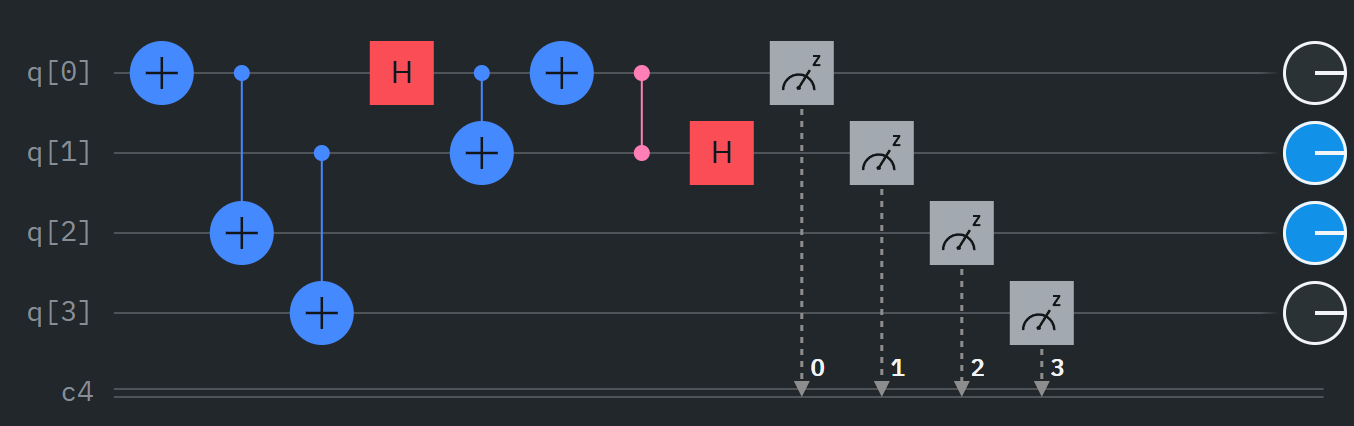
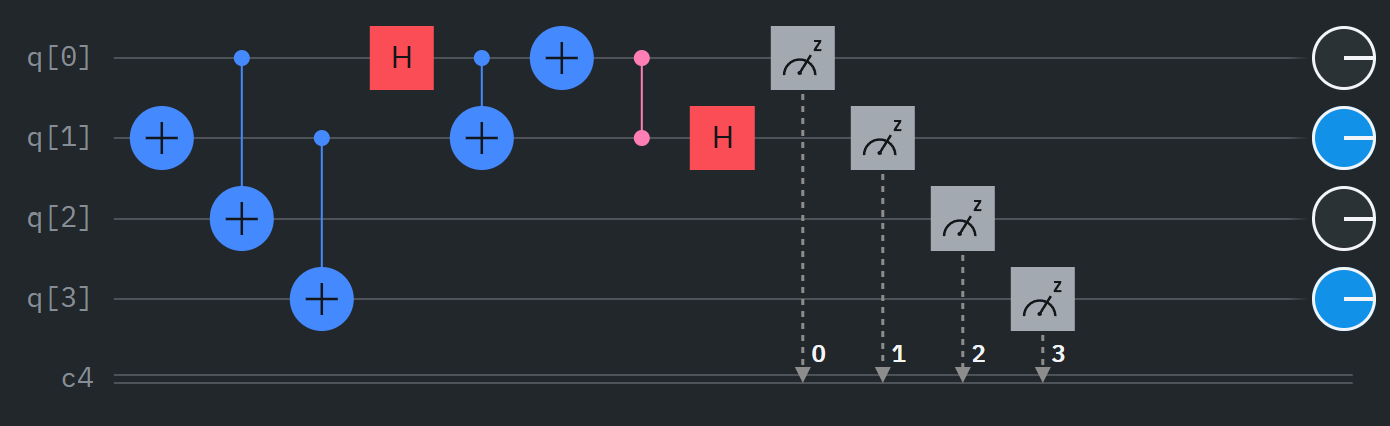
updated z basis circuit for simulating q0 being default

Changed region(s): [[0.0, 0.061, 1.0, 0.946]]

diff --git a/exploringancilla/ancillazbasis/maliciousancillaZbasis3.py b/exploringancilla/ancillazbasis/maliciousancillaZbasis3.py
@@ -12,7 +12,10 @@ import matplotlib.pyplot as plt
 qc = QuantumCircuit(4, 4)
 
 # simulate target input qubit q0 be |1> and q1 be |0>
-qc.x(0)  # q0 is |1>
+# qc.x(0)  # q0 is |1>
+
+# q0 is |0> by default
+qc.x(1) # q1 is |1> for this example
 
 # attacker attach malicious ancilla to target qubits
 qc.cx(0,2)

diff --git a/exploringancilla/ancillazbasis/README.md b/exploringancilla/ancillazbasis/README.md
@@ -10,10 +10,11 @@
 - The goal of this attack is to allow attack to find out what the input qubit state is
 - From the attack, attacker can get to learn about amplitude probabilities and see the bias/parity
 
-### Image of Circuit based on maliciousancillaZbasis.py
+### Image of Circuit based on maliciousancillaZbasis
 - Built with IBM Composer
 ![alt text](maliciousancillaZbasiscircuit.png)
-
+![alt text](maliciousancillaZbasiscircuit2.png)
+![alt text](maliciousancillaZbasiscircuit3.png)
 
 ### Advantage of the attack:
 - No interference to the target original circuit logic
